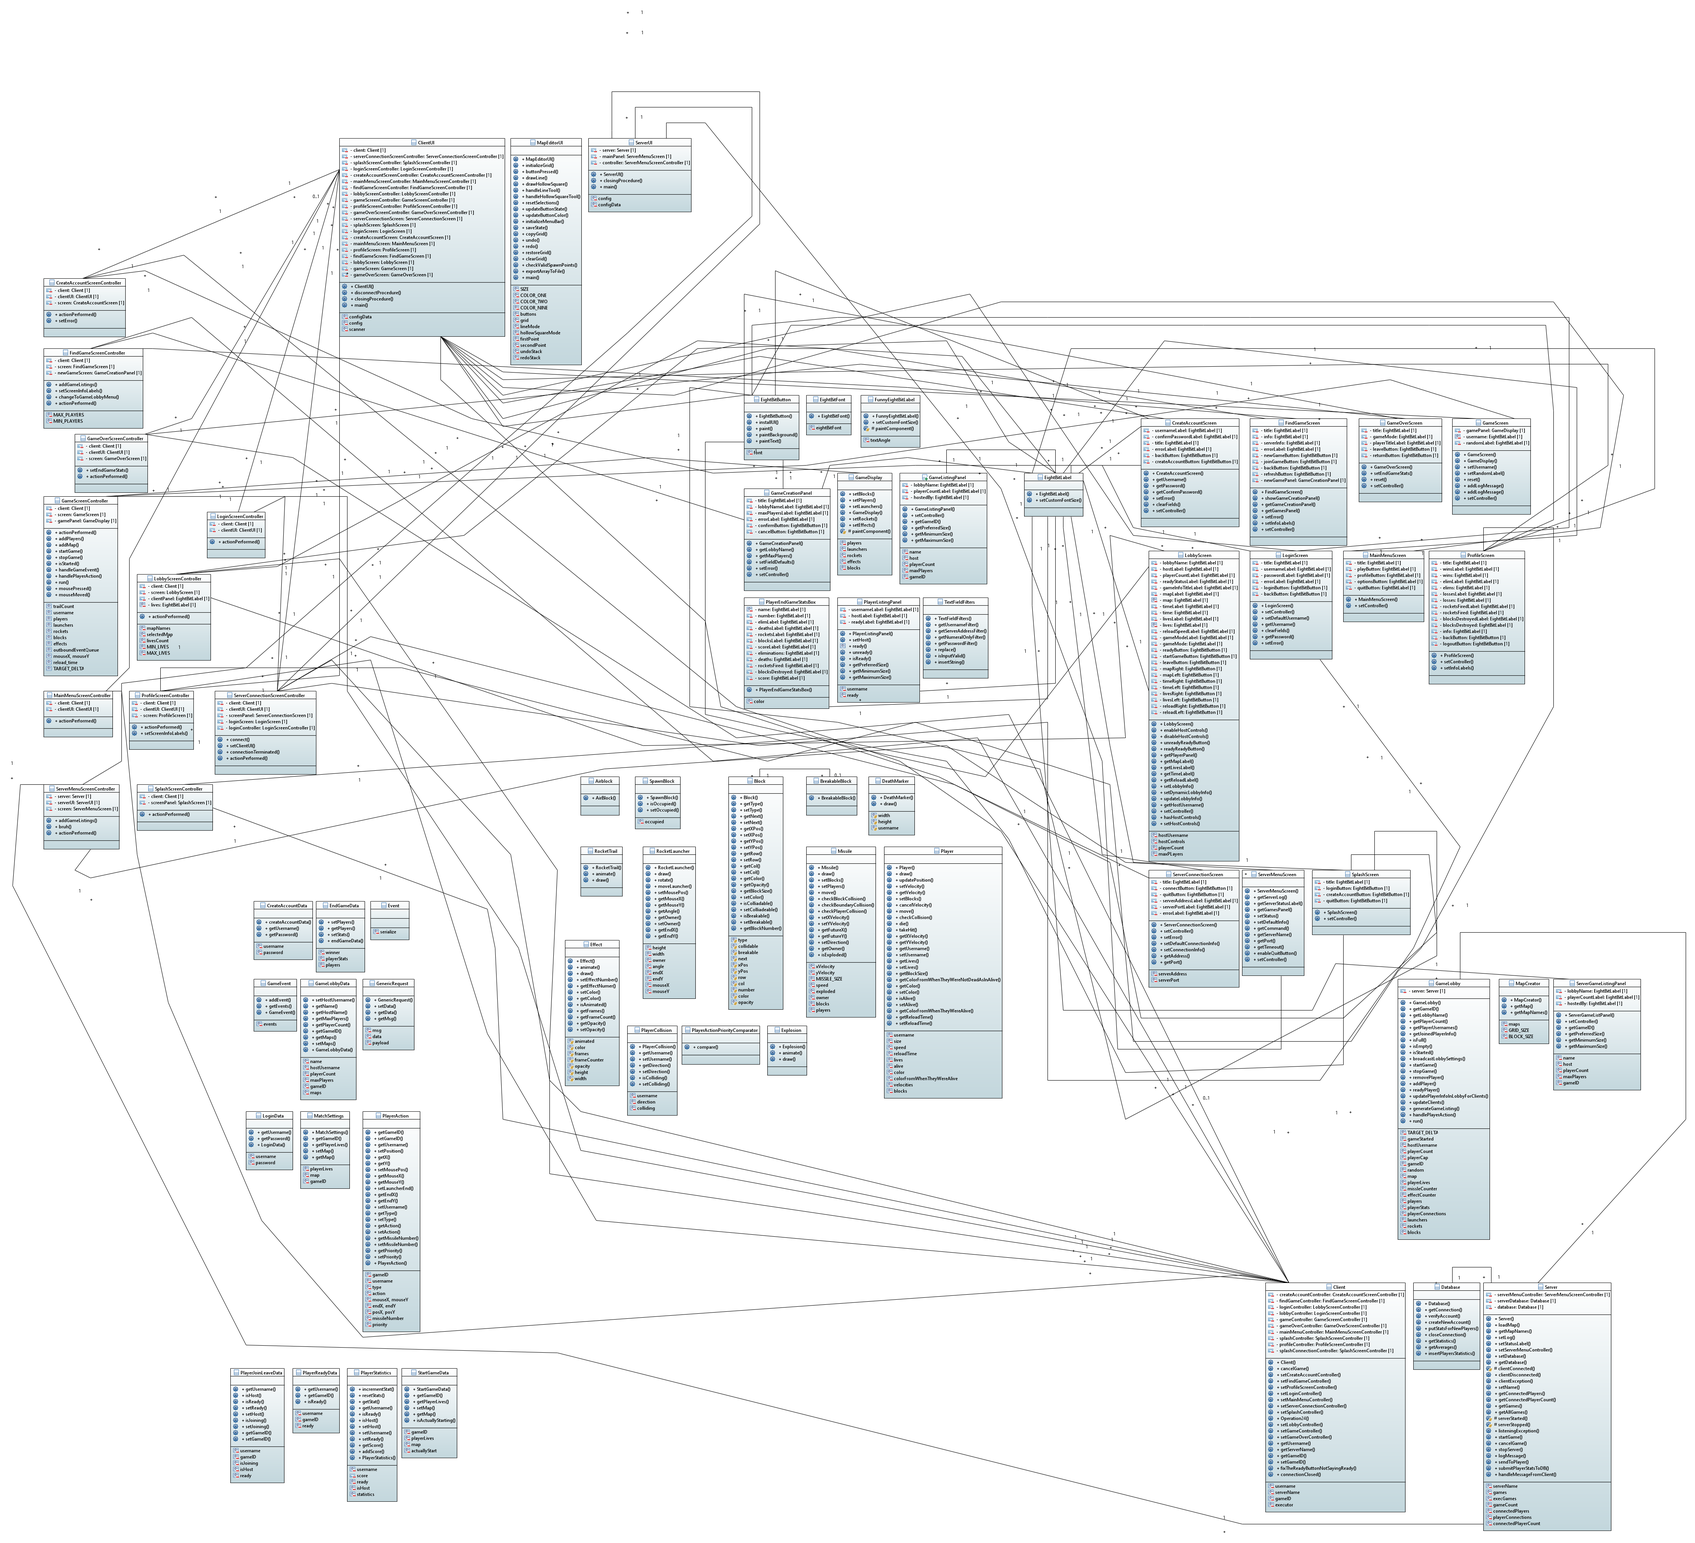
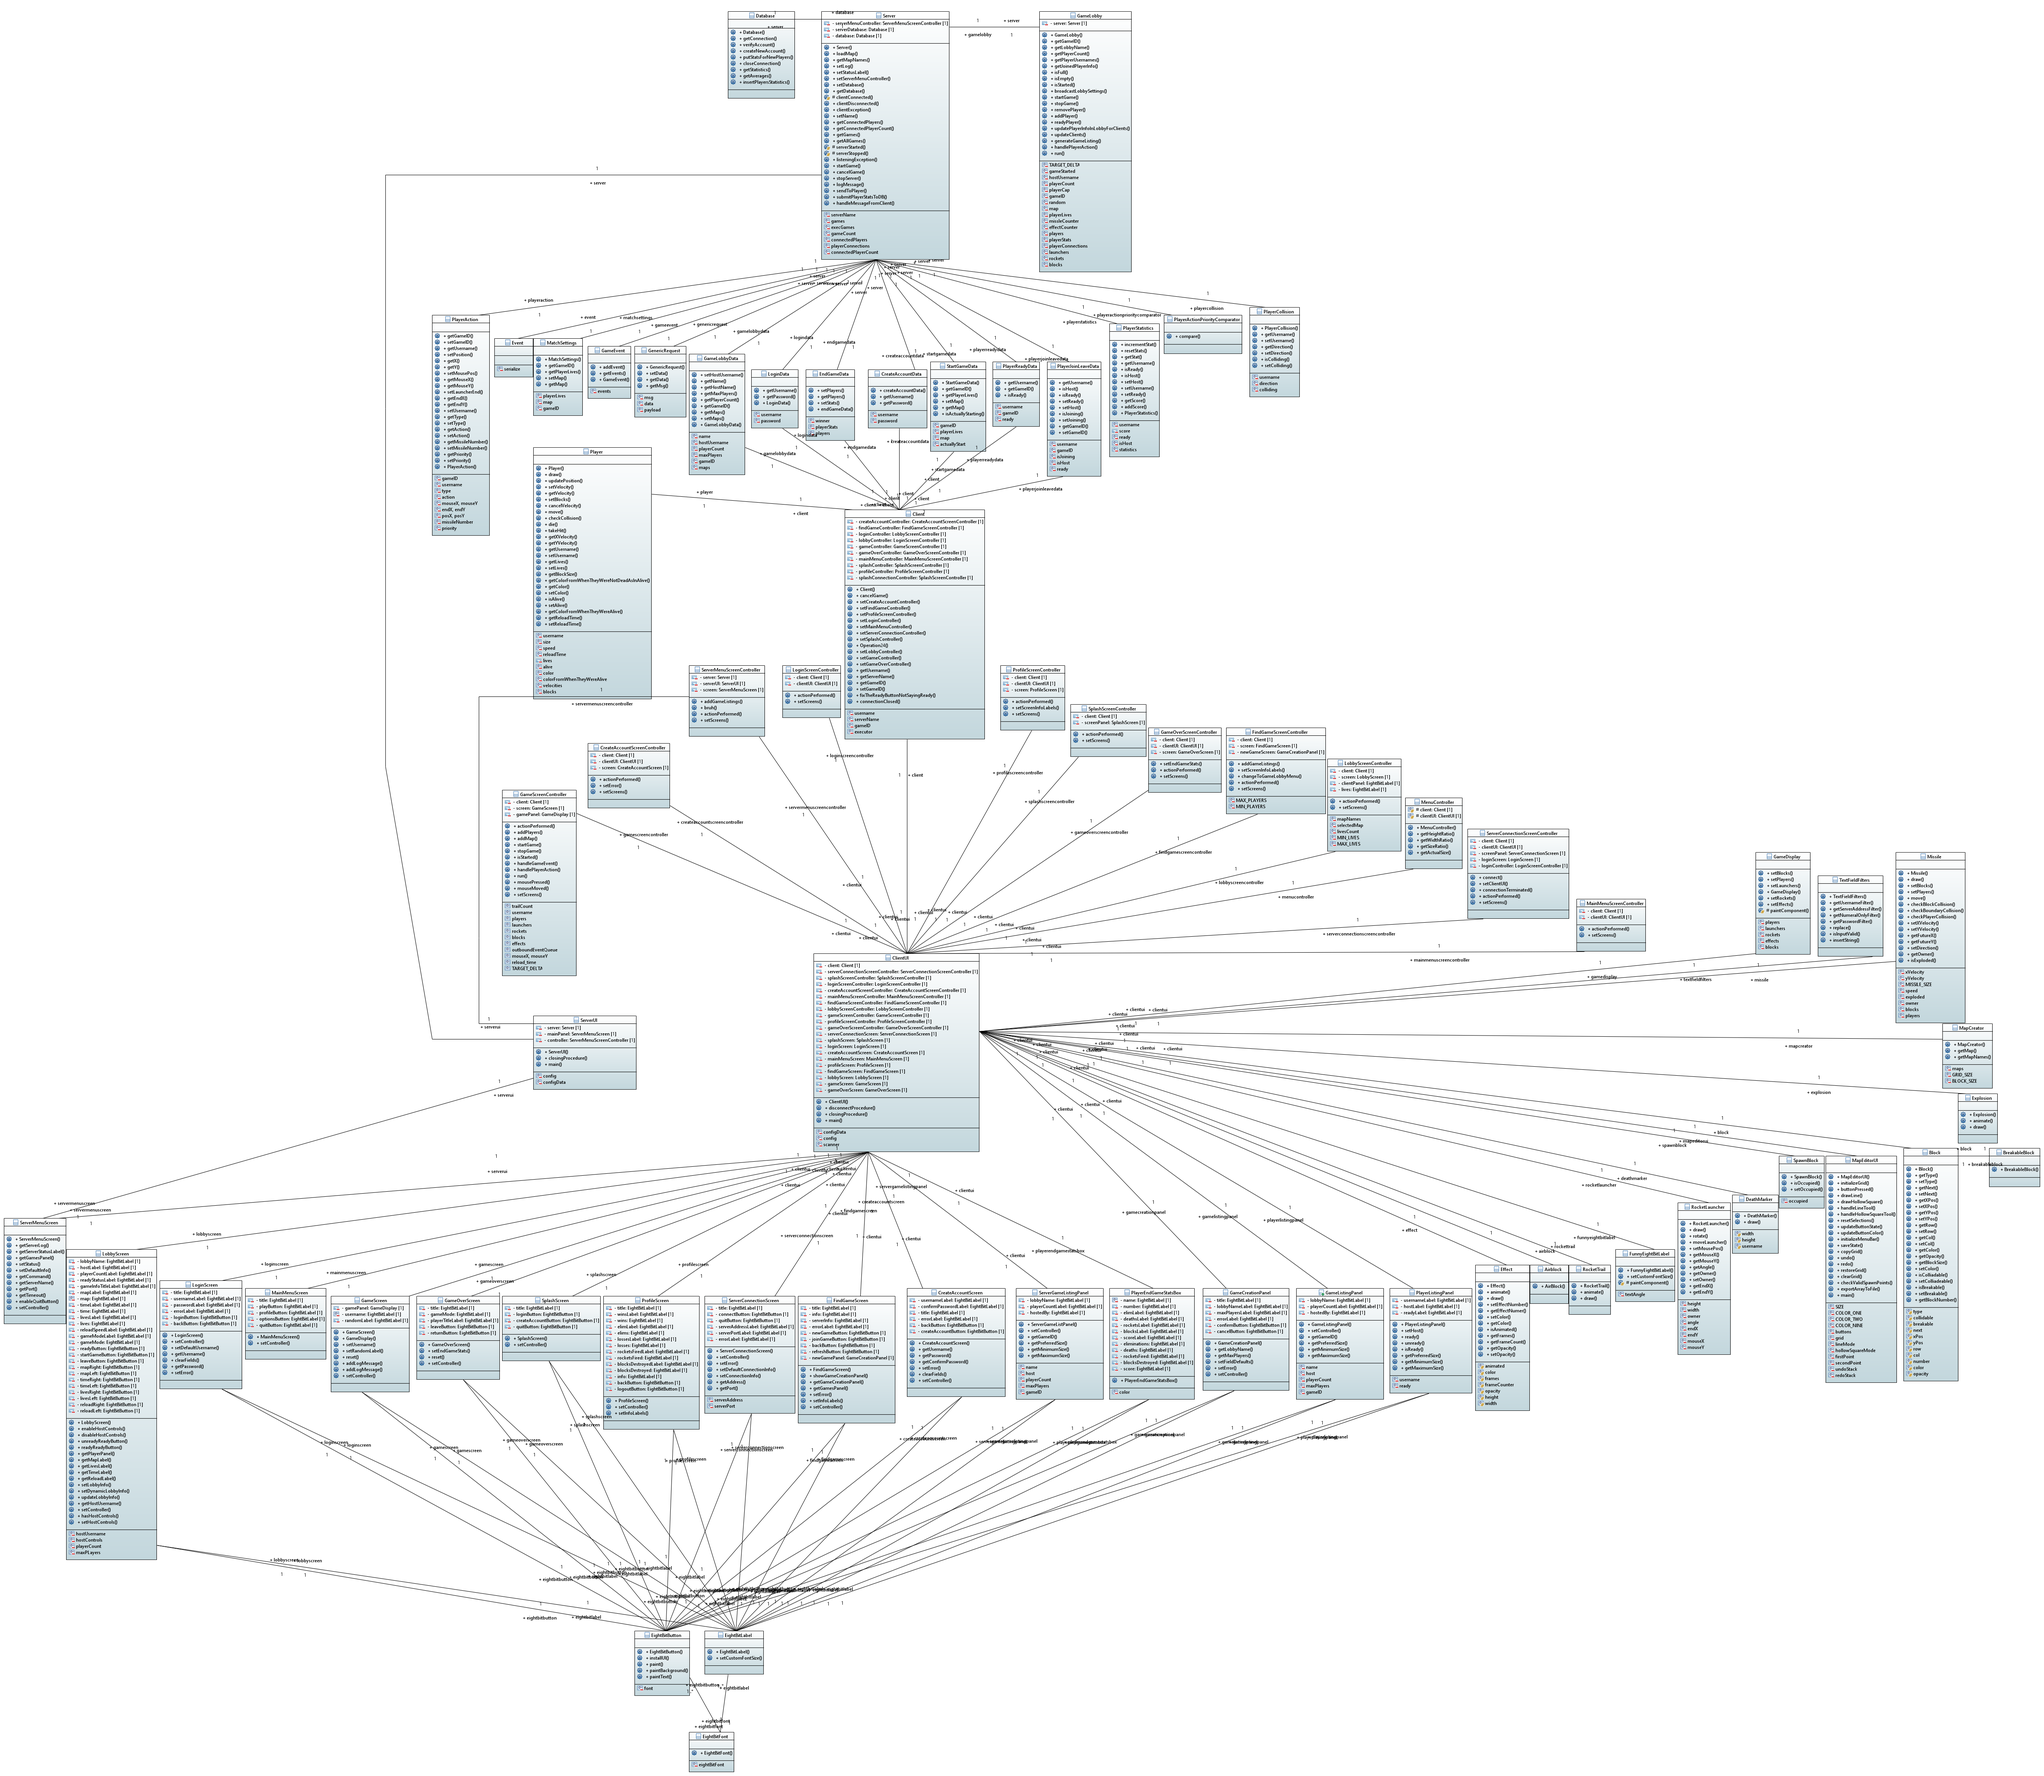
Re-did integration test, tidied class diagram

diff --git a/Tests/SplashScreenControllerTest.java b/Tests/SplashScreenControllerTest.java
@@ -1,0 +1,77 @@
+package Tests;
+
+import static org.junit.Assert.assertEquals;
+
+import java.awt.CardLayout;
+
+import javax.swing.JButton;
+import javax.swing.JPanel;
+
+import org.junit.Before;
+import org.junit.Test;
+
+import client.Client;
+import client.ClientUI;
+import controller.SplashScreenController;
+
+// Integration test simulating the user clicking on the various buttons present on the game's Main Menu
+public class SplashScreenControllerTest {
+
+    private SplashScreenController splashScreenController;
+    private JPanel clientPanel;
+    private Client client;
+    private ClientUI clientUI;
+    private CardLayout cardLayout;
+    private String currentCardName; 
+    
+    @Before
+    public void setUp() {
+        clientPanel = new JPanel();
+        cardLayout = new CardLayout();
+        clientPanel.setLayout(cardLayout);
+        
+        client = new Client();
+        clientUI = new ClientUI();
+        
+        // Add the clientPanel to the clientUI
+        clientUI.add(clientPanel);
+
+        splashScreenController = new SplashScreenController(client, clientPanel, clientUI);
+    }
+
+    @Test
+    public void testActionPerformedLogin() {
+        JButton loginButton = new JButton("Login");
+        clientPanel.add(loginButton, "LOGIN");
+        cardLayout.show(clientPanel, "LOGIN");
+        currentCardName = "LOGIN"; 
+
+        loginButton.doClick();
+
+        assertEquals("LOGIN", currentCardName);
+    }
+
+    @Test
+    public void testActionPerformedCreateAccount() {
+        JButton createAccountButton = new JButton("Create Account");
+        clientPanel.add(createAccountButton, "CREATE_ACCOUNT");
+        cardLayout.show(clientPanel, "CREATE_ACCOUNT");
+        currentCardName = "CREATE_ACCOUNT"; 
+
+        createAccountButton.doClick();
+
+        assertEquals("CREATE_ACCOUNT", currentCardName);
+    }
+
+    @Test
+    public void testActionPerformedDisconnect() {
+        JButton disconnectButton = new JButton("Disconnect");
+        clientPanel.add(disconnectButton, "SERVER_CONNECTION");
+        cardLayout.show(clientPanel, "SERVER_CONNECTION");
+        currentCardName = "SERVER_CONNECTION"; 
+        
+        disconnectButton.doClick();
+        
+        assertEquals("SERVER_CONNECTION", currentCardName);
+    }
+}
